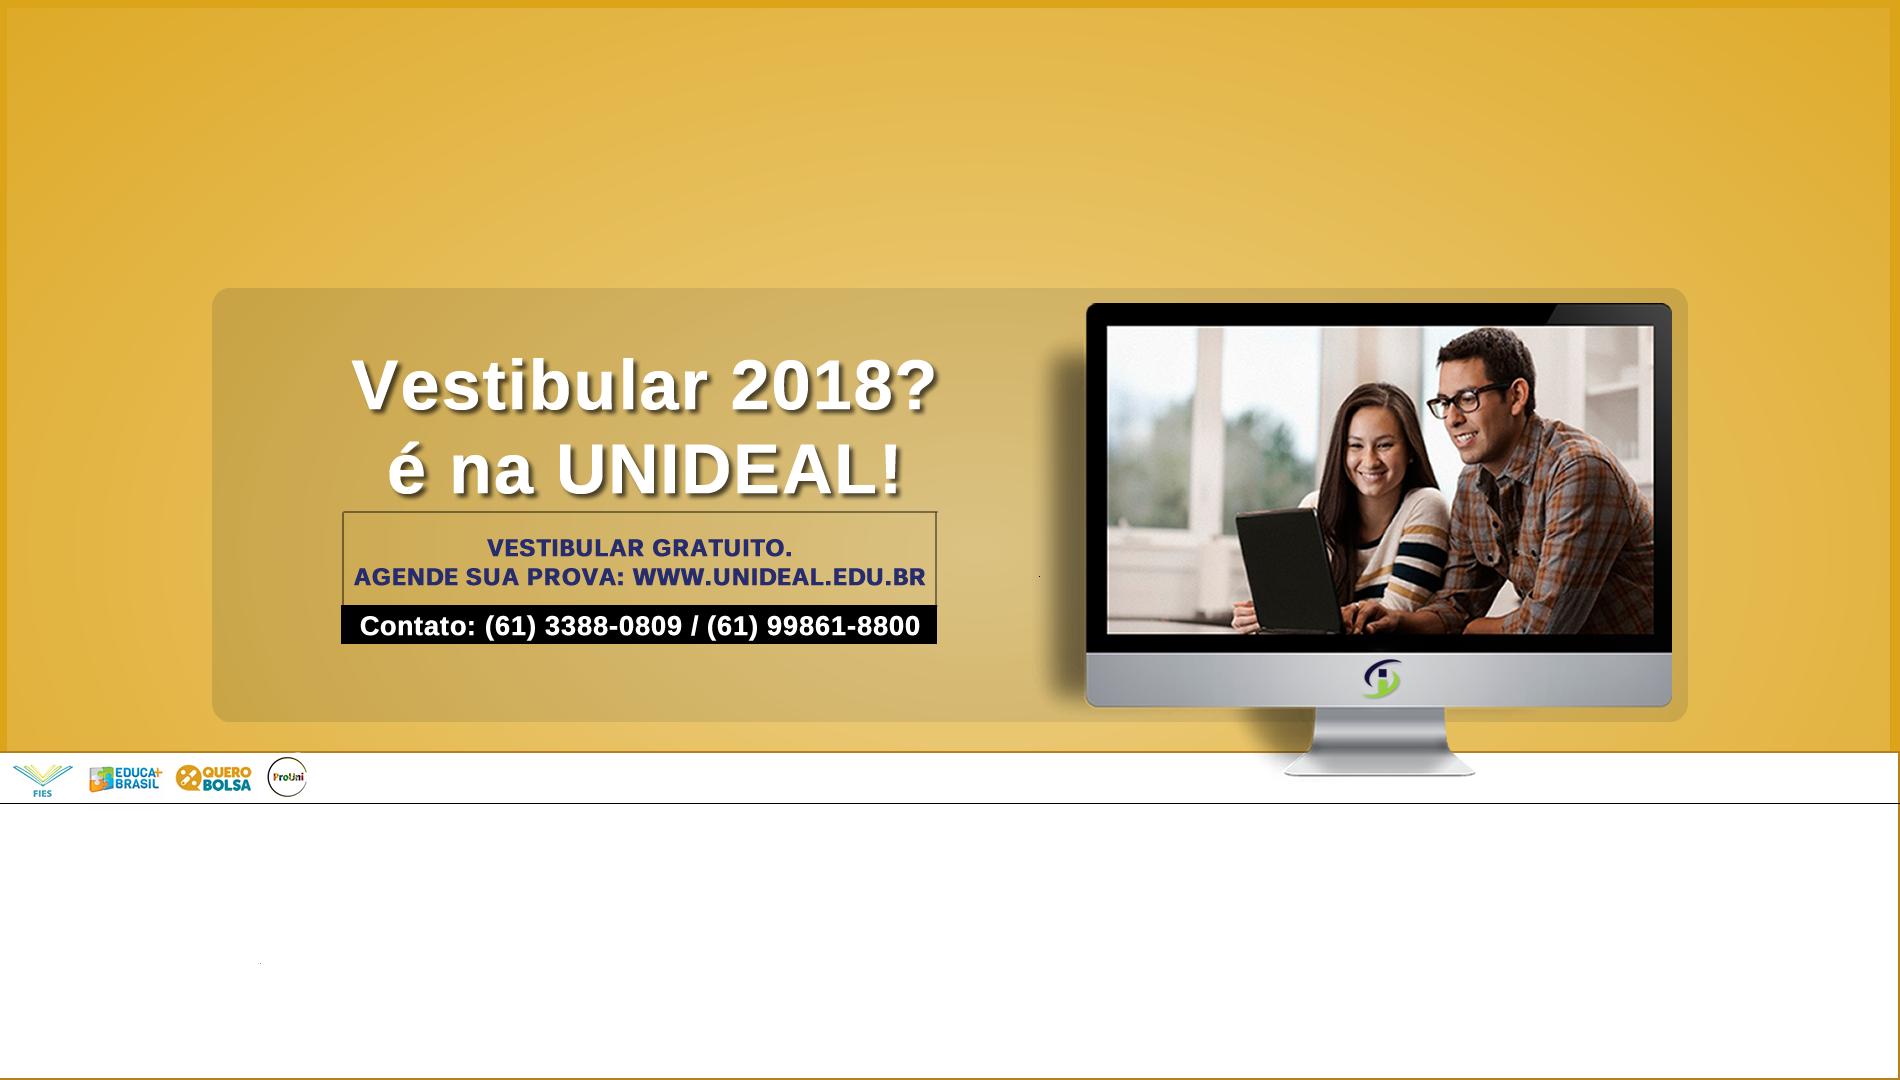
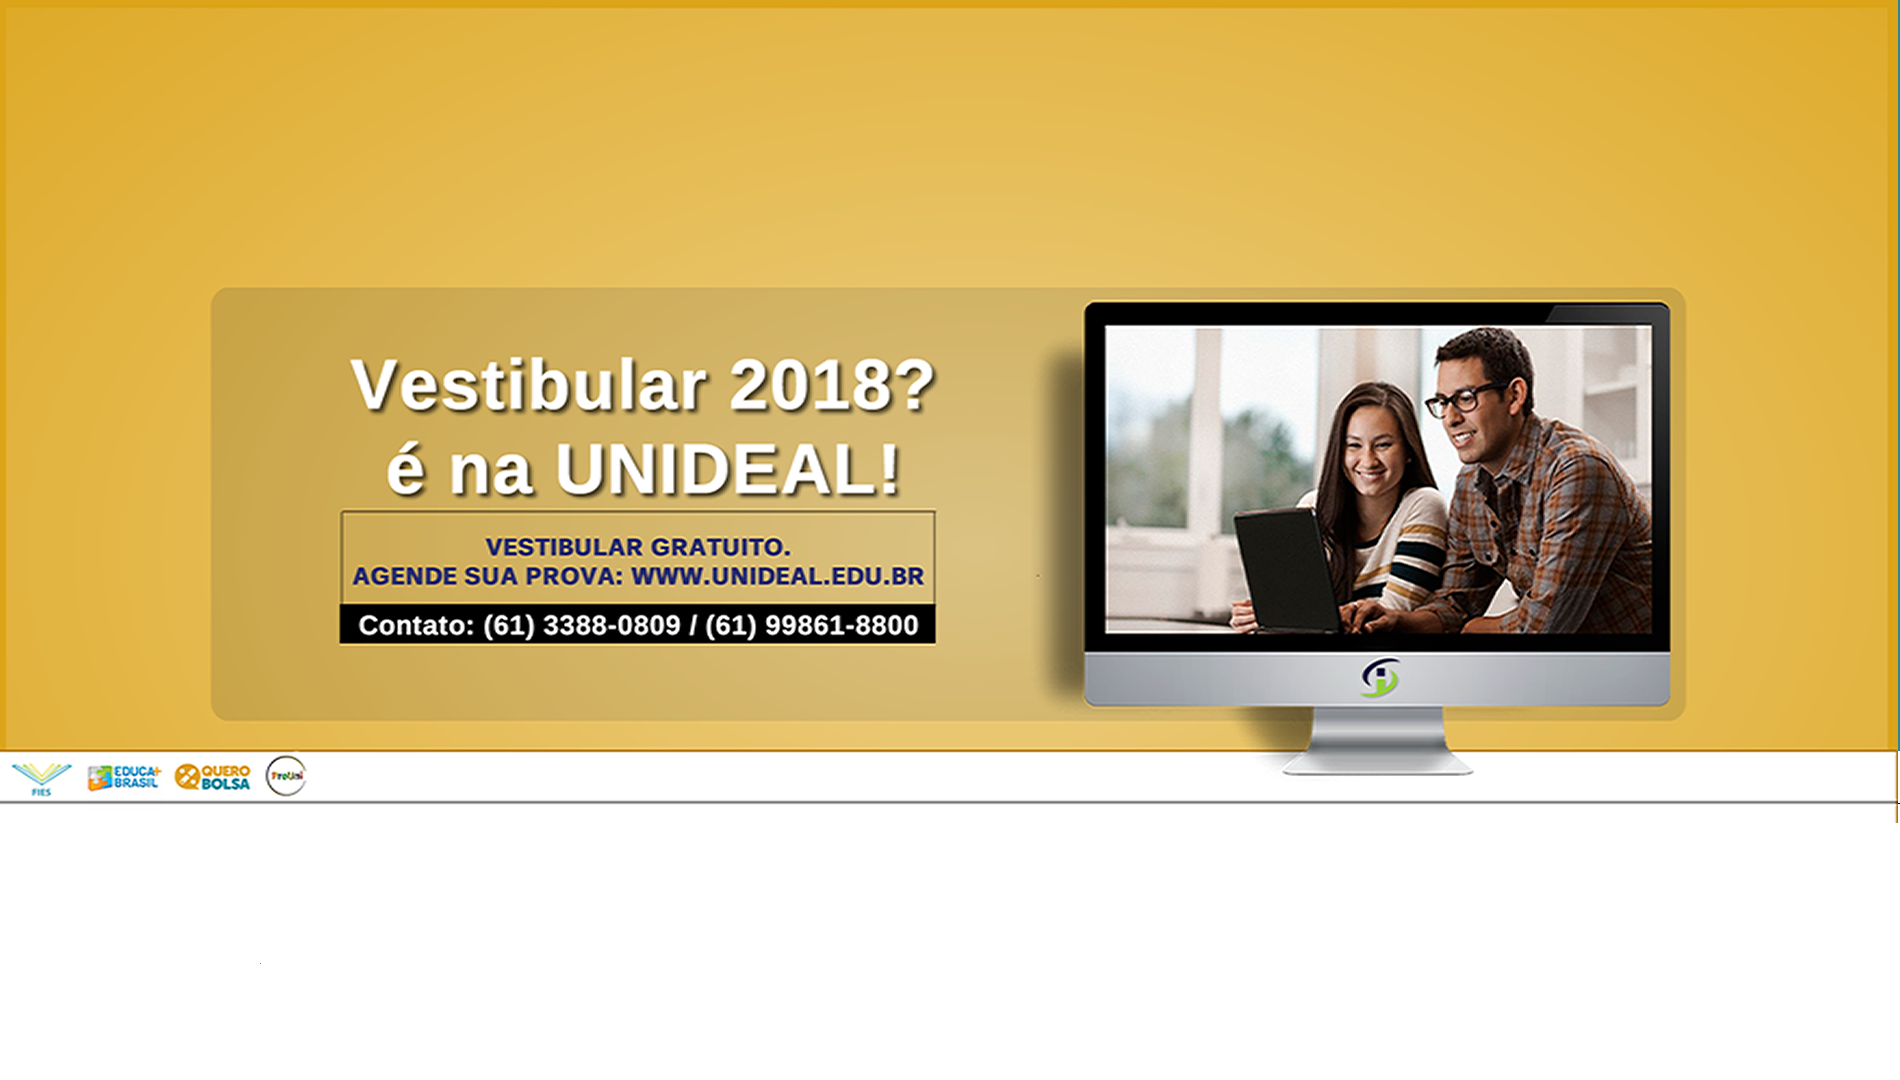
atualizacao1

diff --git a/index.html b/index.html
@@ -16,12 +16,13 @@
     <link href="vendor/bootstrap/css/bootstrap.min.css" rel="stylesheet">
 
     <!-- Custom styles for this template -->
-    <link href="css/half-slider.css" rel="stylesheet">
+    <link href="./css/half-slider.css" rel="stylesheet">
 
   </head>
 
   <body>
     <header>
+        
       <div id="carouselExampleIndicators" class="carousel slide" data-ride="carousel">
         <ol class="carousel-indicators">
           <li data-target="#carouselExampleIndicators" data-slide-to="0" class="active"></li>
@@ -29,12 +30,12 @@
         </ol>
         <div class="carousel-inner" role="listbox">
           <!-- Slide One - Set the background image for this slide in the line below -->
-          <div class="carousel-item active" style="background-image: url(./img/banner_01.png)">
+          <div class="carousel-item active" style="background-image: url(./img/banner_001.png)">
             <div class="carousel-caption d-none d-md-block">
           </div>
           </div>
           <!-- Slide Two - Set the background image for this slide in the line below -->
-          <div class="carousel-item" style="background-image: url(./img/banner_02.png)">
+          <div class="carousel-item" style="background-image: url(./img/banner_002.png)">
             <div class="carousel-caption d-none d-md-block">
           </div>
           </div>
@@ -47,6 +48,7 @@
           <span class="carousel-control-next-icon" aria-hidden="true"></span>
           <span class="sr-only">Next</span>
         </a>
+      </div>
       </div>
     </header>
 

diff --git a/css/half-slider.css b/css/half-slider.css
@@ -5,7 +5,7 @@
  */
 
 .carousel-item {
-  height: 65vh;
+  height: 64vh;
   min-height: 300px;
   background: no-repeat center center scroll;
   -webkit-background-size: cover;
@@ -13,3 +13,6 @@
   -o-background-size: cover;
   background-size: cover;
 }
+
+
+
